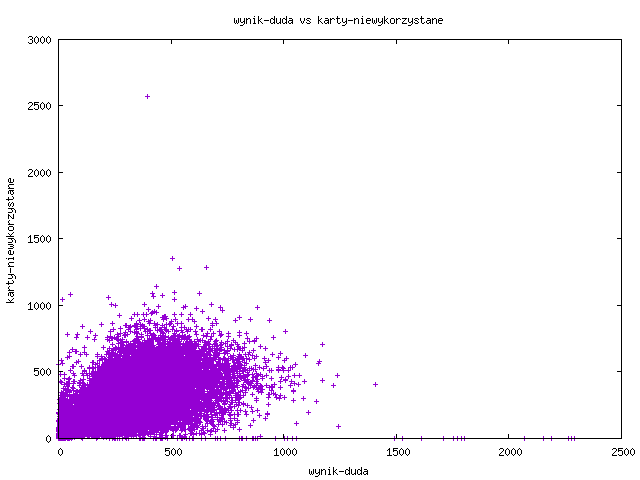
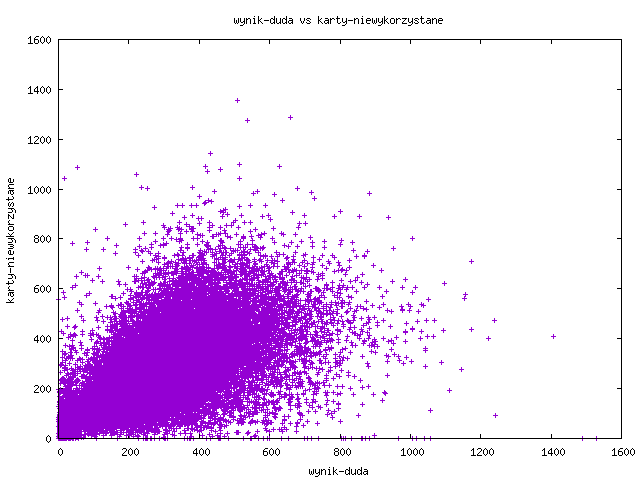
set the same max value for chart of unused ballots

diff --git a/index.md b/index.md
@@ -244,6 +244,8 @@ Why 87 polling stations had problems with with putting in and pulling out the sa
 ![](charts/karty_niewykorzystane/wynik_witkowski_as_function_karty_niewykorzystane.png)
 ![](charts/karty_niewykorzystane/wynik_zoltek_as_function_karty_niewykorzystane.png)
 
+In order to set the same maximum for both axis, not all data points were placed on chart.
+
 ### Discussion
 Why Duda's and Kosiniak's chart is significantly different than Trzaskowski's and all other candidates? I don't know.
 
